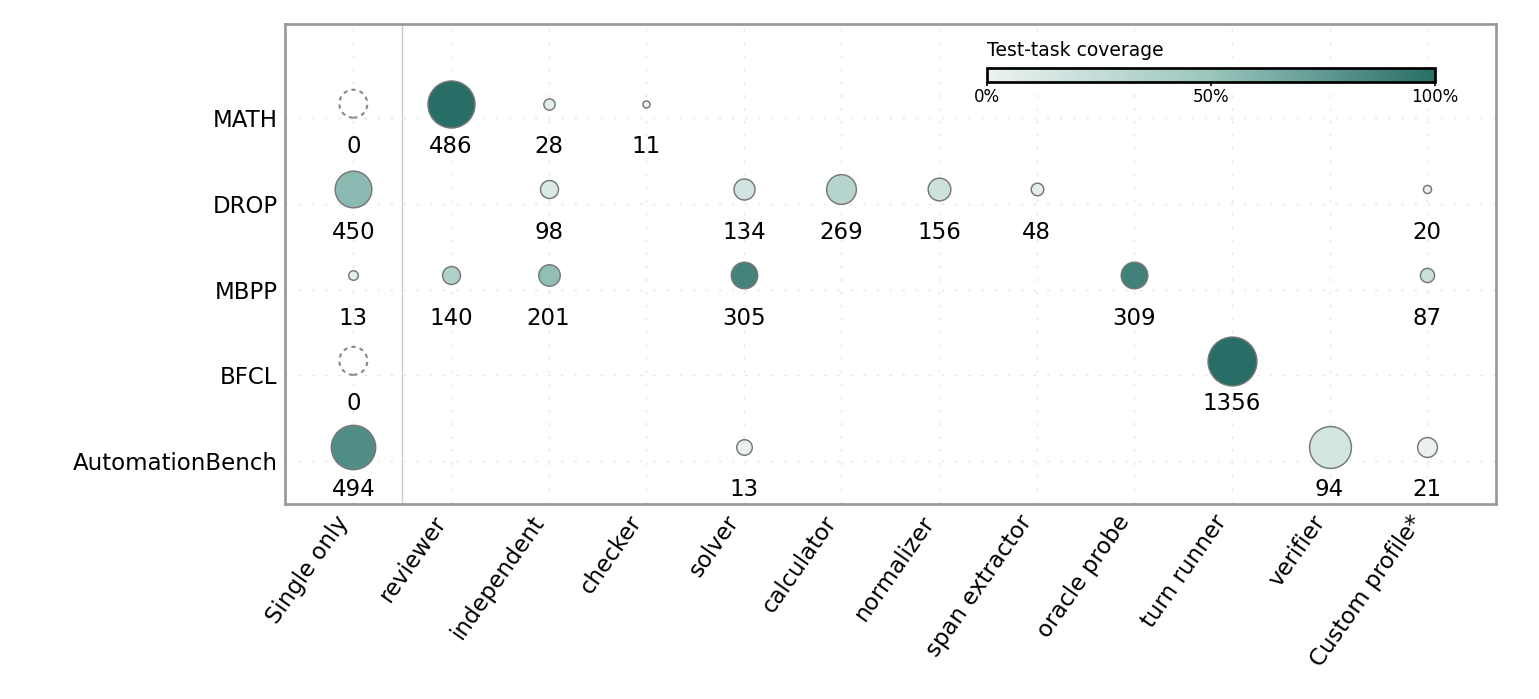
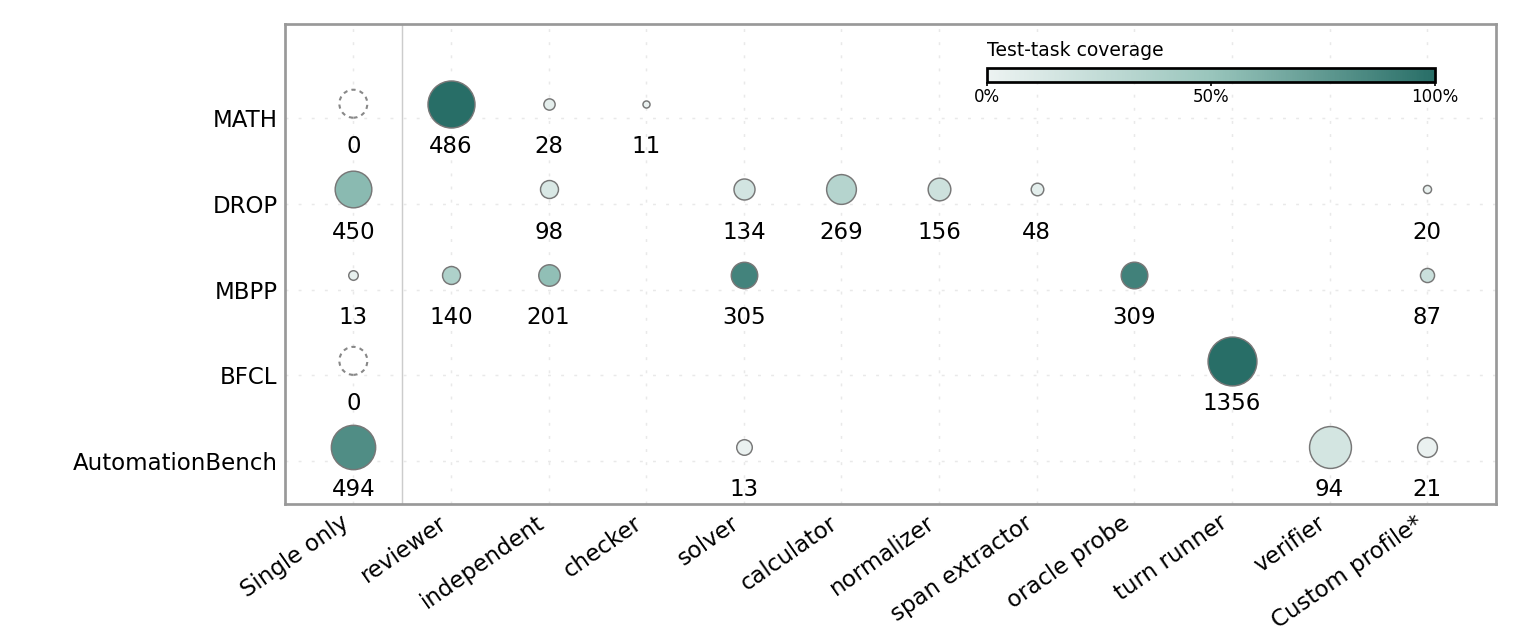
Reduce member label angle and bottom whitespace

diff --git a/scripts/visualize_mechanism_evidence.py b/scripts/visualize_mechanism_evidence.py
@@ -180,7 +180,7 @@ def overview_plot(rows, out):
 def member_plot(rows, overview, out):
     # Reuse Figure 19's categorical bubble matrix and area encoding.
     # Auxiliary panels are removed; the matrix reclaims their horizontal space.
-    c = Canvas(1026,466); ax = c.ax([190,16,807,320]); clean(ax,True)
+    c = Canvas(1026,426); ax = c.ax([190,16,807,320]); clean(ax,True)
     coverage = {(r['benchmark'],r['member']):r for r in read(out/'member-task-coverage.csv')}
     assert set(coverage) == {(r['benchmark'],r['member']) for r in rows}
     totals = {r['benchmark']:r['testTasks'] for r in overview}
@@ -190,7 +190,7 @@ def member_plot(rows, overview, out):
     labels=[r['benchmark'] for r in overview]; ys=np.arange(len(labels))
     ax.set_ylim(len(labels)-.5,-1.1); ax.set_yticks(ys,labels,fontsize=11)
     ax.set_xlim(-.7,len(roles)-.3)
-    ax.set_xticks(range(len(roles)),[x.replace('_',' ') if x!='<generated-profile>' else 'Custom profile*' for x in roles],rotation=55,ha='right',fontsize=11)
+    ax.set_xticks(range(len(roles)),[x.replace('_',' ') if x!='<generated-profile>' else 'Custom profile*' for x in roles],rotation=35,ha='right',fontsize=11)
     ax.grid(color='#e9e9e9',ls=(0,(2,7)),lw=.7,zorder=0)
     ax.axvline(.5,color='#ccc',lw=.7,zorder=1)
     for y,r in enumerate(overview):

diff --git a/docs/experiments/mechanism-audit-2026-10-12/visuals/README.md b/docs/experiments/mechanism-audit-2026-10-12/visuals/README.md
@@ -87,4 +87,4 @@ All figures are exported as PNG, SVG, and PDF. No simulated observations, signif
 
 Adapted from the data-viz skill's **Figure 19** (`plot.py`: paired endpoints, aligned bubble matrix and horizontal bars) and **Figure 07** (`plot.py` and `vizlib/common.py:grouped_bars`). The original code was copied into a private preparation workspace before adaptation. The script retains the horizontal panel order, muted blue/green palette, area encoding, and grouped-bar palette. Legends are moved inside the panels at the user's request.
 
-Figure 19's height is reduced for five benchmarks instead of 36 rows. The member matrix reclaims unused auxiliary-panel space and uses the template's color-plus-area encoding for task coverage and event share, with an in-panel color key. Its canvas remains 1026 × 466 layout pixels. Figure 07 reclaims the external legend space and removes unmeasured replicate dots, error bars, P-values, and biological labels. Explanatory notes live in this document; shorter canvases reduce whitespace. Axis values, legends, and labels describe actual MFlow measures. The installed templates are unchanged.
+Figure 19's height is reduced for five benchmarks instead of 36 rows. The member matrix reclaims unused auxiliary-panel space and uses the template's color-plus-area encoding for task coverage and event share, with an in-panel color key. Its canvas is 1026 × 426 layout pixels; 35° x-axis labels reduce bottom whitespace while preserving the plotting area and font size. Figure 07 reclaims the external legend space and removes unmeasured replicate dots, error bars, P-values, and biological labels. Explanatory notes live in this document; shorter canvases reduce whitespace. Axis values, legends, and labels describe actual MFlow measures. The installed templates are unchanged.
